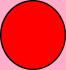
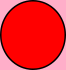
updated graphics

diff --git a/dharmik_vinit_connect4/src/dharmik_vinit_connect4/TwoPlayerPanel.java b/dharmik_vinit_connect4/src/dharmik_vinit_connect4/TwoPlayerPanel.java
@@ -15,7 +15,7 @@ public class TwoPlayerPanel extends JPanel implements ActionListener {
 	private JLabel[][] lblChips;
 	private boolean winner = false;
 	private ImageIcon redChip;
-	private ImageIcon blueChip;	
+	private ImageIcon yellowChip;	
 	Border border = BorderFactory.createLineBorder(Color.BLACK, 3);
 
 	public TwoPlayerPanel() {
@@ -29,7 +29,7 @@ public class TwoPlayerPanel extends JPanel implements ActionListener {
 		createGUIBoard();
 
 		redChip = new ImageIcon("red-chip.png");
-		blueChip = new ImageIcon("blue-chip.png");
+		yellowChip = new ImageIcon("yellow-chip.png");
 		
 	}
 
@@ -37,13 +37,14 @@ public class TwoPlayerPanel extends JPanel implements ActionListener {
 		buttons = new JButton[columns];
 		lblChips = new JLabel[rows][columns];
 		for (int i = 0; i < columns; i++) {
-			buttons[i] = new JButton(String.valueOf(i));
-			buttons[i].setFont(new Font("Arial", Font.BOLD, 30));
+			buttons[i] = new JButton("");
+			//buttons[i].setFont(new Font("Courier New", Font.BOLD, 60));
 			buttons[i].setForeground(Color.WHITE);
 			buttons[i].setBackground(Color.RED);
 			buttons[i].addActionListener(this);
+			buttons[i].setBorder(border);
 			add(buttons[i]);
-			;
+			
 		}
 
 		for (int i = 0; i < rows; i++) {
@@ -99,6 +100,7 @@ public class TwoPlayerPanel extends JPanel implements ActionListener {
 
 	private void disableAllButtons() {
 		for (JButton i : buttons) {
+			i.setBackground(Color.YELLOW);
 			i.setEnabled(false);
 		}
 
@@ -108,7 +110,7 @@ public class TwoPlayerPanel extends JPanel implements ActionListener {
 		int posX = board.getPosX();
 		int posY = board.getPosY();
 		if (board.getTurn() % 2 == 0) {
-			lblChips[posX][posY].setIcon(blueChip);
+			lblChips[posX][posY].setIcon(yellowChip);
 		} else {
 			lblChips[posX][posY].setIcon(redChip);
 		}
@@ -119,9 +121,9 @@ public class TwoPlayerPanel extends JPanel implements ActionListener {
 		int turn = board.getTurn();
 		Color colorToFill;
 		if (turn % 2 == 0) {
-			colorToFill = Color.RED;
+			colorToFill = new Color(255,0,0);
 		} else {
-			colorToFill = Color.BLUE;
+			colorToFill = new Color(255,255,0);
 		}
 
 		for (JButton i : buttons) {

diff --git a/dharmik_vinit_connect4/src/dharmik_vinit_connect4/OnePlayerPanel.java b/dharmik_vinit_connect4/src/dharmik_vinit_connect4/OnePlayerPanel.java
@@ -43,19 +43,20 @@ public class OnePlayerPanel extends JPanel implements ActionListener {
 		createGUIBoard();
 
 		playerChip = new ImageIcon("red-chip.png");
-		AIChip = new ImageIcon("blue-chip.png");
+		AIChip = new ImageIcon("yellow-chip.png");
 	}
 	
 
 	private void createGUIBoard() {
 		buttons = new JButton[columns];
 		lblChips = new JLabel[rows][columns];
-		for (int i = 0; i < columns; i++) {
-			buttons[i] = new JButton(String.valueOf(i));
-			buttons[i].setFont(new Font("Arial", Font.BOLD, 30));
+		for (int i = 0; i < columns; i++) {			
+			buttons[i] = new JButton("");
+			//buttons[i].setFont(new Font("Courier New", Font.BOLD, 60));
 			buttons[i].setForeground(Color.WHITE);
 			buttons[i].setBackground(Color.RED);
 			buttons[i].addActionListener(this);
+			buttons[i].setBorder(border);
 			add(buttons[i]);
 		}
 
@@ -130,6 +131,7 @@ public class OnePlayerPanel extends JPanel implements ActionListener {
 	
 	private void disableAllButtons() {
 		for (JButton i : buttons) {
+			i.setBackground(Color.YELLOW);
 			i.setEnabled(false);
 		}
 
@@ -148,7 +150,7 @@ public class OnePlayerPanel extends JPanel implements ActionListener {
 			for(int j = 0; j < txtbrd.length; j++) {
 				if (txtbrd[i][j].getColor().equals(Color.RED)) {
 					lblChips[i][j].setIcon(playerChip);
-				} else if (txtbrd[i][j].getColor().equals(Color.BLUE)){
+				} else if (txtbrd[i][j].getColor().equals(Color.YELLOW)){
 					lblChips[i][j].setIcon(AIChip);	
 				} 
 			}
@@ -156,17 +158,14 @@ public class OnePlayerPanel extends JPanel implements ActionListener {
 		
 	}
 
-	private void setTurnGuides() {
-		int turn = board.getTurn();
-		Color colorToFill = Color.RED;
-		
+
+	private void setTurnGuides() {		
 
 		for (JButton i : buttons) {
-			i.setBackground(colorToFill);
+			i.setBackground(new Color(255,0,0));
 		}
 
 	}
-
 	private void checkValidColumn() {
 		int columnToRemove = board.checkValidColumn(buttons);
 		System.out.println(columnToRemove + " A");

diff --git a/dharmik_vinit_connect4/src/dharmik_vinit_connect4/Board.java b/dharmik_vinit_connect4/src/dharmik_vinit_connect4/Board.java
@@ -44,7 +44,7 @@ public class Board {
 					break;
 				} else {
 					
-					textBoard[i][temp].setColor(Color.BLUE);
+					textBoard[i][temp].setColor(Color.YELLOW);
 					posX = i;
 					posY = temp;
 					break;
@@ -91,7 +91,7 @@ public class Board {
 			for (int x = 0; x < columns; x++) {
 				if (textBoard[i][x].getColor() == Color.RED) {
 					System.out.print("R ");
-				} else if (textBoard[i][x].getColor() == Color.BLUE) {
+				} else if (textBoard[i][x].getColor() == Color.YELLOW) {
 					System.out.print("B ");
 				} else {
 					System.out.print("N ");
@@ -155,7 +155,7 @@ public class Board {
 		if (winner == Color.RED) {
 			return "Red";
 		} else {
-			return "Blue";
+			return "Yellow";
 		}
 	}
 

diff --git a/dharmik_vinit_connect4/src/dharmik_vinit_connect4/AIcomponent.java b/dharmik_vinit_connect4/src/dharmik_vinit_connect4/AIcomponent.java
@@ -31,10 +31,10 @@ public class AIcomponent {
 	public void evaluateBoard() {
 		defensiveScoringPosition = evaluatePossiblePositions(Color.RED);
 		
-		offensiveScoringPosition = evaluatePossiblePositions(Color.BLUE);
+		offensiveScoringPosition = evaluatePossiblePositions(Color.YELLOW);
 		
 		
-		offensiveScore = getHighestInRow(offensiveScoringPosition, getCorrespondingY(offensiveScoringPosition), Color.BLUE);
+		offensiveScore = getHighestInRow(offensiveScoringPosition, getCorrespondingY(offensiveScoringPosition), Color.YELLOW);
 		defensiveScore = getHighestInRow(defensiveScoringPosition, getCorrespondingY(defensiveScoringPosition), Color.RED);
 		
 		//System.out.println("defensive Score: "+defensiveScore);

diff --git a/dharmik_vinit_connect4/src/dharmik_vinit_connect4/AImodule.java b/dharmik_vinit_connect4/src/dharmik_vinit_connect4/AImodule.java
@@ -118,7 +118,7 @@ public class AImodule {
 		} else {
 			try {
 				if (((board.getColor(movesX[index], movesY[index]+1).equals(Color.RED)) 
-						|| (board.getColor(movesX[index], movesY[index]+1).equals(Color.BLUE))) 
+						|| (board.getColor(movesX[index], movesY[index]+1).equals(Color.YELLOW))) 
 						&& (board.getColor(movesX[index], movesY[index]).equals(Color.BLACK))) {
 					
 				} else {
